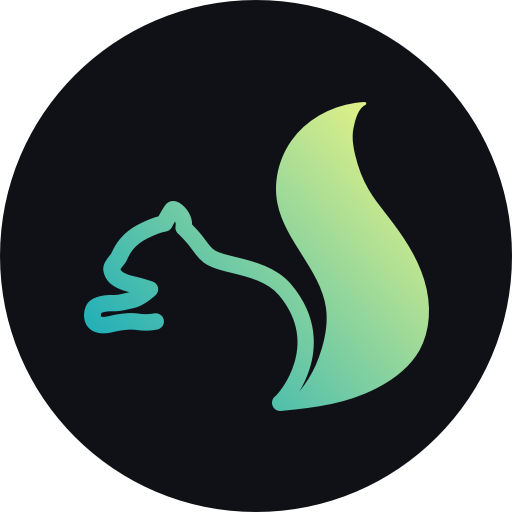
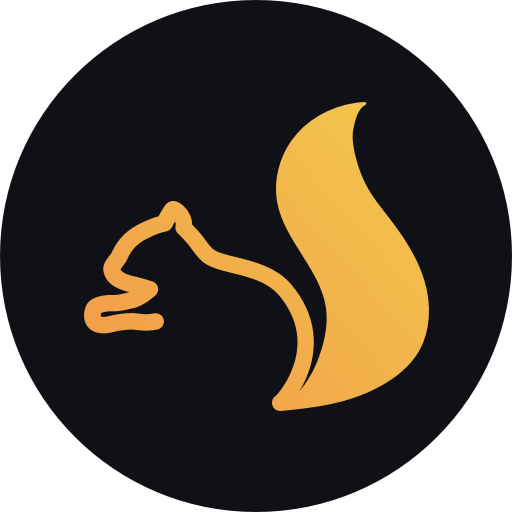
Update asset, primary color

Changed region(s): [[0.1562, 0.1875, 0.8438, 0.8125]]

diff --git a/src/styles/components/_listitem.scss b/src/styles/components/_listitem.scss
@@ -28,8 +28,7 @@
   .gradient-bar {
     width: 100%;
     height: 4px;
-    // background-image: linear-gradient(to right, #818181, #4a4a4a);
-    background-image: linear-gradient(to right, #04a5c0, #f9f981);
+    background-image: linear-gradient(to right, #f2994a, #f2c94c);
 
     &.completed {
      background-image: linear-gradient(to right, #818181, #4a4a4a);
@@ -39,7 +38,7 @@
   .filled {
     width: 0%;
     height: 100%;
-    background-image: linear-gradient(to right, #04a5c0, #f9f981);
+    background-image: linear-gradient(to right, #f2994a, #f2c94c);
   }
 
   &:hover {

diff --git a/src/styles/pages/_home.scss b/src/styles/pages/_home.scss
@@ -37,7 +37,7 @@
     width: 70px;
     white-space: nowrap;
     text-align: right;
-    background-image: linear-gradient(to right top, #2eb3b6, #4cc0ac);
+    background-image: linear-gradient(to right top, #f2994a, #f2c94c);
     font-size: .9rem;
     background-clip: text;
     -webkit-background-clip: text;

diff --git a/config-overrides.js b/config-overrides.js
@@ -9,7 +9,7 @@ module.exports = override(
   addLessLoader({
     javascriptEnabled: true,
     modifyVars: {
-      "@primary-color": "#b7e292",
+      "@primary-color": "#f2a84b",
       "@font-family": "'Open Sans', sans-serif",
     }
   })

diff --git a/src/styles/_constants.scss b/src/styles/_constants.scss
@@ -1,4 +1,4 @@
-$primary: #b7e292;
+$primary: #f2a84b;
 $bg: #101117;
 $text_grey: #9b9b9b;
 $text_dark: #707070;
